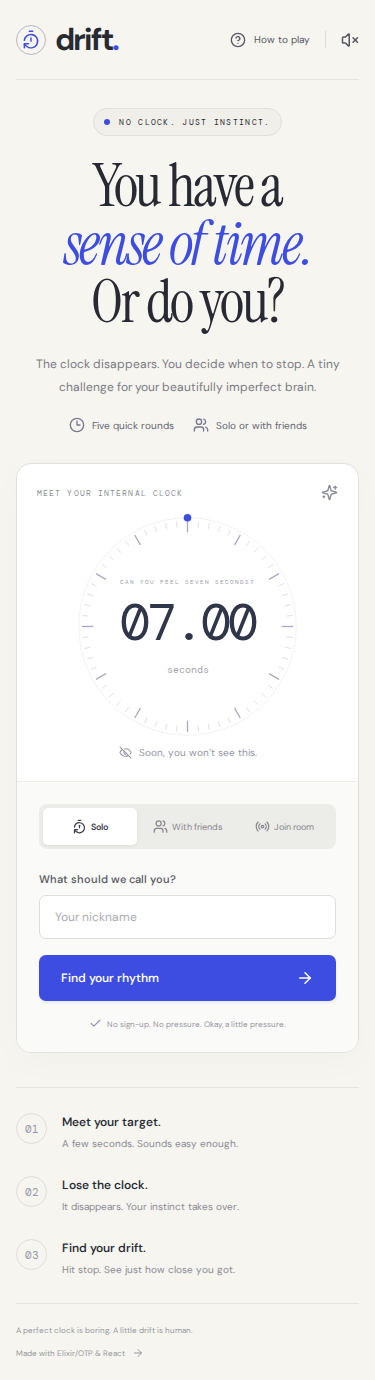
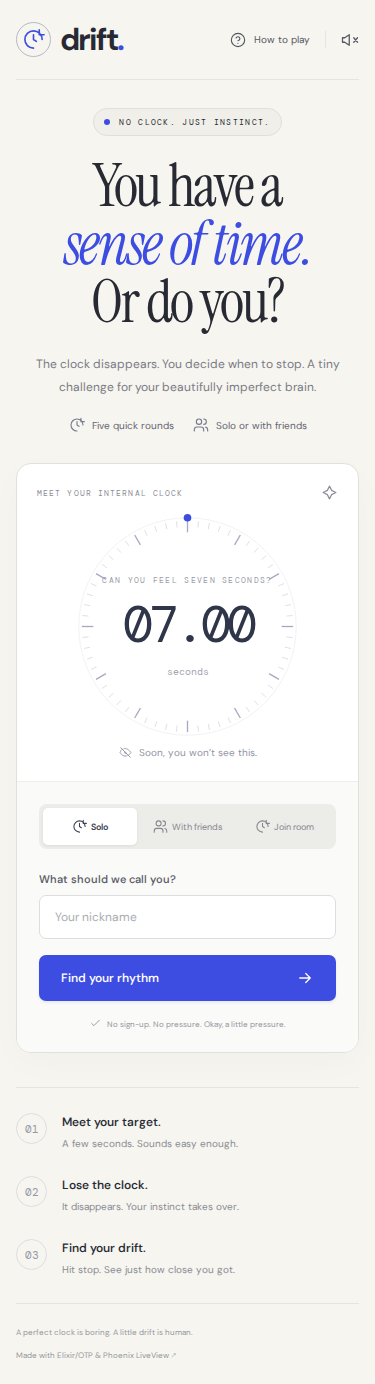
docs: explain Drift's Elixir-first LiveView architecture

diff --git a/docs/protocol.md b/docs/protocol.md
@@ -1,47 +1,57 @@
-# WebSocket protocol
+# LiveView and room messages
 
-Connect to `/ws` on the backend. Send one JSON object per text frame. Each connection occupies at most one player seat.
+The browser uses Phoenix LiveView's `/live/websocket` transport. Phoenix handles joins, heartbeats, reconnects, and HTML diffs. The former custom `/ws` JSON protocol has been removed. Application code uses LiveView events and Elixir messages between processes.
 
-## Client messages
+## Browser events
 
-| Message | Fields | Effect |
+| Event | Fields | Effect |
 | --- | --- | --- |
-| `create` | `name`, `solo` (boolean) | Create a room and take its host seat |
-| `join` | `code`, `name`, optional `token` | Join a lobby, or reconnect to a previous seat |
-| `start` | — | Host starts a new five-round match |
-| `stop` | — | Lock the sender's guess using server receipt time |
-| `next` | — | Host advances after a round reveal |
-| `ping` | — | Keep the connection alive; server returns `pong` |
+| `form` | `nickname`, optional `room-code` | Keep entry form state in the LiveView |
+| `mode` | `mode`: `solo`, `party`, or `join` | Choose how to enter |
+| `enter` | `nickname`, optional `room-code` | Create or join a room |
+| `action` | `action`: `start`, `stop`, or `next` | Send a validated game action to the room |
+| `leave` | — | Detach the seat and return home |
+| `instructions`, `close_instructions` | — | Open or close the help dialog |
+| `sound` | — | Toggle optional countdown audio |
+| `dismiss` | — | Clear a displayed error |
 
-Names must contain 1–20 characters after trimming. Rooms support one solo player or up to eight party players. Party matches need at least two connected players to start. New players may join before a match or after it finishes.
+The room validates names (nonblank, at most 20 characters), capacity, membership, host permissions, and phase. Party rooms require two connected players to start and support at most eight players. Solo rooms hold one player. New players may enter a lobby or a finished match.
 
-## Server messages
+## Seat credentials
 
-- `joined`: `code`, `player_id`, and a private `token`. Store the token in session storage and send it with `join` after reconnecting. It is a bearer credential; do not put it in share links.
-- `state`: a public `room` snapshot, including phase, target, players, and results.
-- `error`: a user-facing `message`.
-- `pong`: heartbeat acknowledgement.
+After joining, LiveView pushes a `save-seat` event containing `code`, `player_id`, `token`, and `name`. A browser hook stores it under `drift.seat` in session storage. The token is a bearer credential; never include it in invite URLs or public snapshots.
 
-Phases are `lobby → countdown → playing → reveal`, repeating until the final `finished` phase. Countdown lasts three seconds. `starts_in_ms` is the remaining time until the scheduled start; negative values indicate elapsed time. Results stay empty until reveal. The public state never contains resume tokens or another player's unrevealed guess.
+On refresh or reconnect, the LiveView client supplies the saved seat in its connection parameters. The new LiveView process calls `Room.join/4` with that token. The room replaces the previous process occupying the seat and preserves its score. An invite to another room overrides a saved seat.
+
+The `clear-seat` event removes the stored credential after explicit leave, a failed restore, room expiry/failure, or seat replacement. Storage is optional; without it, play works for the current connection but refresh recovery is unavailable.
+
+## Elixir process messages
+
+A LiveView invokes the room through its public functions:
+
+```elixir
+{:ok, room_pid, identity} = Drift.Rooms.create("Arnav", self(), solo: true)
+:ok = Drift.Room.action(room_pid, self(), "start")
+snapshot = Drift.Room.snapshot(room_pid)
+:ok = Drift.Room.leave(room_pid, self())
+```
+
+The room sends `{:room_state, snapshot}` to each connected player's LiveView. The snapshot contains phase, round, target, public player status, and revealed results. Results stay empty until the reveal; private submissions and resume tokens are never included.
+
+Lifecycle notifications carry the originating room PID: `{:connection_replaced, room_pid}` and `{:room_closed, room_pid}`. The LiveView also monitors its room. Notifications from a former room are ignored after the player switches rooms.
 
 ## Scoring and timing
 
-Targets are 5, 6, 7, 8, and 10 seconds, shuffled once per room. A round ends when everyone stops or eight seconds after the target. Missing the deadline incurs a 20-second error penalty. Closest guesses share round wins; the lowest cumulative absolute error wins the match. Exact cumulative ties share the match win.
+Phases are `lobby → countdown → playing → reveal`, repeating until `finished`. Targets are 5, 6, 7, 8, and 10 seconds, shuffled once per room. Each round starts with a three-second countdown. `starts_in_ms` is relative to the room's monotonic clock; negative values indicate elapsed time.
 
-The backend uses its monotonic clock and receives no client-supplied elapsed value. Network travel time contributes to results. This is a casual timing game, not a latency-neutral competition; play on a stable connection. The browser's local animation is approximate and does not determine the score.
+The browser dial stays visible for 1.5 seconds and then hides. JavaScript animates that dial locally, without sending messages on every frame. The server accepts no client-supplied elapsed time: a stop's receipt time determines the score.
 
-## Room lifecycle
+A round ends when everyone stops or eight seconds after the target. Missing the deadline adds a 20-second absolute error. Closest valid guesses share round wins. Lowest cumulative absolute error wins the match; exact cumulative ties share the win. Network delay contributes to results, so use a stable connection.
 
-One registered `GenServer` owns each room, under a `DynamicSupervisor`. A disconnected player's seat remains available through their token. A resumed connection replaces its predecessor. Host control transfers to a connected player when the host disconnects. Disconnected seats are removed when the next match starts.
+## Room lifecycle and transport limits
 
-Rooms expire after 15 minutes without game activity. Heartbeats do not extend the lifetime. Rooms and scores are in memory: expiry, a room crash, or a server restart clears them. Room processes use `restart: :temporary` so a failed room is not silently recreated with an empty match.
+Each registered room is a temporary child of a `DynamicSupervisor`. Disconnect marks a seat offline and transfers host control. Tokens recover those seats; offline seats are removed when the next match starts. Rooms expire after 15 minutes without game activity, and heartbeats do not extend that lifetime. A room failure or server restart clears its in-memory state.
 
-## Transport limits
+The endpoint permits 4 KiB WebSocket frames. The LiveView handles at most 40 application events per two-second window; Phoenix heartbeats are handled by the framework. The server allows up to 500 active rooms. Browser origins must match `ALLOWED_ORIGINS`, and LiveView uses the endpoint's signed session and CSRF protection.
 
-- 4 KiB maximum WebSocket frame size.
-- 40 text messages per connection per two-second window.
-- 60-second socket idle timeout; clients send heartbeats every 20 seconds.
-- Up to 500 room processes per server.
-- Browser origins must match `ALLOWED_ORIGINS`.
-
-These are development defaults, not a substitute for a reverse proxy and global connection limits on an internet-facing service.
+These per-connection limits supplement the connection limits of a deployed reverse proxy.

diff --git a/docs/development.md b/docs/development.md
@@ -2,11 +2,9 @@
 
 ## Requirements
 
-Validated on Ubuntu with Elixir 1.18.3, Erlang/OTP 27, and Node.js 24.21.0. Erlang/OTP 27 and Elixir 1.18 or later are required because the backend uses Elixir's built-in JSON module. Node.js 22.12+ is required by the frontend tooling; Node.js 24 is used in CI.
+Elixir 1.18.3, Erlang/OTP 27, and Node.js 24 are the development and CI versions. Node.js 22.12+ works with the asset tooling. npm, Git, Make, and Bash 4.3+ are also used.
 
-You also need npm, Git, Make, and Bash 4.3+ for the combined development script. Individual server commands work without Make or the script.
-
-Install Hex and Rebar once for your user if needed:
+Phoenix and LiveView are project dependencies installed by Mix; no global Phoenix installation is required. Hex and Rebar are installed once per user:
 
 ```sh
 mix local.hex --force
@@ -22,31 +20,32 @@ make setup
 make dev
 ```
 
-Open http://127.0.0.1:5173. Ctrl+C stops both servers. Development defaults are frontend port 5173 and backend port 4000.
+Open http://127.0.0.1:4000. The helper first builds browser assets, then runs Phoenix and Vite's asset watcher. Ctrl+C stops both processes. Vite builds files on disk and does not listen on a separate development port.
 
-Alternatively, run these in separate terminals:
+Restart `make dev` after editing Elixir source. Browser-hook and Tailwind changes rebuild automatically; refresh the page to load them. There is no development-only LiveReload dependency.
+
+To run the two processes separately, build once, then use separate terminals:
+
+```sh
+cd assets
+npm run build
+npm run dev
+```
 
 ```sh
 cd backend
 mix run --no-halt
 ```
 
-```sh
-cd frontend
-npm run dev
-```
+## Interface and assets
 
-Vite proxies `/ws` and `/health` to the backend. Its fixed port prevents silently moving to a port rejected by the backend's origin check.
+Elixir UI components are under `backend/lib/drift_web/components`. Keep game rules in `backend/lib/drift`; keep LiveView event handling and presentation under `backend/lib/drift_web`.
 
-## Frontend styling
+Tailwind 4 integrates with Vite in `assets/vite.config.js`. `assets/src/tailwind.css` contains the Tailwind import, shared theme tokens, and an explicit source directive scanning Elixir UI modules. Use complete utility names so Tailwind can detect them. Computed timeline positions use a CSS variable.
 
-Tailwind CSS 4 is integrated through `@tailwindcss/vite` in `frontend/vite.config.ts`. Components use utility classes for layouts, responsive breakpoints, interaction states, and reduced-motion support.
+The small `assets/src/app.js` file contains browser hooks. Phoenix JavaScript packages are local file dependencies pointing at the exact versions in `backend/deps`, keeping browser and server versions in sync. Run `make setup` after changing Mix dependencies.
 
-`frontend/src/tailwind.css` is the stylesheet entry: it contains only the Tailwind import and shared colour/font theme tokens. The old handwritten `style.css` has been removed. Fonts are loaded from the document head, with system fallbacks.
-
-Player colours use complete, static class strings in `frontend/src/lib/appearance.ts` so Tailwind can detect every option at build time. Avoid constructing utility names from partial strings. The results timeline passes its computed horizontal position through a CSS variable consumed by a Tailwind positioning utility.
-
-Prettier's Tailwind plugin sorts utility classes using the project's theme. Browser tests use dedicated test IDs for game results rather than styling class names.
+Generated bundles are written to `backend/priv/static` and are not committed. There is no React, React DOM, TypeScript application, or HTML entry file to maintain. Playwright specs use TypeScript for browser testing.
 
 ## Verification
 
@@ -54,39 +53,41 @@ Prettier's Tailwind plugin sorts utility classes using the project's theme. Brow
 make check
 ```
 
-This checks Elixir and frontend formatting, compiles with warnings treated as errors, runs backend and frontend unit tests, builds the frontend, and audits its dependencies. Run `mix format` in `backend` or `npm run format` in `frontend` to apply the formatters.
+Checks Elixir and asset formatting, compiles with warnings treated as errors, runs room and LiveView integration tests, builds assets, and audits npm dependencies. Apply formatting with `mix format` in `backend` and `npm run format` in `assets`.
 
-For browser tests, install Playwright's Chromium once, then run:
+For browser tests:
 
 ```sh
-cd frontend
+cd assets
 npx playwright install chromium
 cd ..
 make e2e
 ```
 
-On a fresh Linux environment, Playwright may also require system libraries; its `npx playwright install --with-deps chromium` command installs them. The browser download is for automated testing and is not required to run or play Drift.
+Playwright may need system libraries on a fresh Linux environment (`npx playwright install --with-deps chromium`). These browser dependencies are only needed for automated tests.
 
-The browser suite starts its own servers when ports 4000 and 5173 are free. Locally, it reuses existing servers on those ports. Stop and restart the backend after editing Elixir source; Vite reloads frontend changes automatically.
+The browser suite builds assets and starts Phoenix on port 4000. Locally it reuses a server already on that port; restart it before testing changed Elixir source. The suite checks complete solo matches, rematches, multiplayer, private guesses, refresh restoration, host handoff, responsive layouts, and rejected origins.
 
-## Serve the built application
+## Production mode
 
 ```sh
 make build
 cd backend
+export SECRET_KEY_BASE="$(mix phx.gen.secret)"
 MIX_ENV=prod mix run --no-halt
 ```
 
-Open http://127.0.0.1:4000. Cowboy serves `frontend/dist`, HTTP health checks, and WebSockets from the same origin. Keep the repository layout intact; this is a source-checkout run mode, not a relocatable OTP release.
+Open http://127.0.0.1:4000. Keep the repository layout intact; this is source-checkout run mode, not a relocatable OTP release. In a deployed environment, generate the secret once and retain it in your environment configuration. Production startup fails clearly if it is missing.
 
 ## Configuration
 
 | Variable | Default | Purpose |
 | --- | --- | --- |
-| `PORT` | `4000` | Cowboy listener port |
-| `ALLOWED_ORIGINS` | localhost and 127.0.0.1 on ports 4000 and 5173 | Comma-separated browser origins permitted to connect to `/ws` |
+| `PORT` | `4000` | Phoenix/Cowboy listener port |
+| `ALLOWED_ORIGINS` | localhost and 127.0.0.1 on port 4000 | Comma-separated origins permitted to connect to LiveView |
+| `SECRET_KEY_BASE` | Ephemeral random secret in development/test; required in production | Signs the browser session and LiveView tokens |
 
-For a deployed origin, set `ALLOWED_ORIGINS` explicitly to the full origin, including scheme and any nonstandard port. Public hosting also needs HTTPS/WSS, a WebSocket-capable reverse proxy, and appropriate global connection limits. No hosted deployment is configured in this repository.
+Set `ALLOWED_ORIGINS` explicitly when changing the port or using a deployed origin. The listener binds to loopback; expose it through a WebSocket-capable reverse proxy when deploying. Public hosting needs HTTPS/WSS and appropriate connection limits. No hosted deployment is configured.
 
 ## Dependency advisory
 

diff --git a/docs/architecture.md b/docs/architecture.md
@@ -1,40 +1,46 @@
 # Architecture
 
-Drift is an Elixir/OTP application with a React + Vite frontend. Cowboy handles HTTP and WebSockets directly; there is no Phoenix application or database.
+Drift is an Elixir/OTP application using Phoenix LiveView. Elixir owns the game and renders the interface. Cowboy and Plug provide Phoenix's HTTP/WebSocket transport. There is no database.
 
 ```mermaid
 flowchart TD
-    Browser[React browser client] <-->|WebSocket messages| Cowboy[Cowboy]
-    Cowboy --> Socket[One handler per connection]
-    Socket --> Room[One GenServer per room]
+    Browser[Browser and small JavaScript hooks] <-->|LiveView WebSocket| Endpoint[Phoenix Endpoint]
+    Endpoint --> LiveView[One LiveView process per browser]
+    LiveView <-->|Calls and room snapshots| Room[One GenServer per room]
+    LiveView --> Components[Elixir HEEx function components]
     Supervisor[Drift.Supervisor] --> Registry[Room registry]
     Supervisor --> Dynamic[Dynamic room supervisor]
-    Supervisor --> Cowboy
+    Supervisor --> PubSub[Phoenix PubSub]
+    Supervisor --> Endpoint
     Dynamic --> Room
     Room --> Registry
 ```
 
 ## Ownership
 
-- `Drift.Application` starts the supervision tree.
-- `Drift.Rooms` creates temporary room processes and resolves join codes.
-- `Drift.Room` owns players, round state, timers, and scores. Its mailbox serializes competing player actions.
-- `DriftWeb.Socket` validates messages, tracks a connection's room, and forwards public state to that client. It monitors the room and closes the connection if the room disappears.
-- `DriftWeb.Server` starts Cowboy and serves the built frontend alongside `/ws` and `/health`.
-- React's `useGame` manages the connection, heartbeat, seat credentials, and reconnect backoff. The game feature renders server-owned state and a local visual clock.
+- `Drift.Application` starts the registry, room supervisor, Phoenix PubSub, and endpoint.
+- `Drift.Rooms` creates bounded, temporary rooms and resolves join codes.
+- `Drift.Room` owns players, countdowns, round deadlines, private submissions, scoring, and host transfer. Its mailbox serializes competing actions.
+- `DriftWeb.Endpoint` serves generated assets and exposes LiveView's `/live` transport. `DriftWeb.Router` applies session, CSRF, and secure-header protection.
+- `DriftWeb.GameLive` manages one browser's seat, form state, UI actions, room monitor, and reconnect restoration. It calls the room with its own process identity and receives public snapshots as Elixir messages.
+- `DriftWeb.HomeComponents`, `MatchComponents`, `ResultsComponents`, and `UIComponents` render the screens using HEEx inside Elixir modules. `Presentation` supplies ranking, labels, and timeline positions.
+- `assets/src/app.js` contains LiveView hooks for the animated clock, sound, clipboard, modal focus, and session storage. These browser APIs need a small JavaScript layer. They never decide scores.
+- Vite builds the hook bundle and Tailwind stylesheet into ignored `backend/priv/static` files. There is no React application or separate frontend server.
 
 ## Failure boundaries
 
-Each room is a temporary supervised child. A room failure affects that match rather than intentionally recreating an empty match under the same code. Other rooms remain available. A backend restart clears all rooms.
+Each room is a temporary supervised child. A failure affects that match; the supervisor does not recreate an empty room under the same code. Other rooms remain available. A backend restart clears rooms.
 
-Player sockets are monitored by their room. Disconnects mark seats offline and transfer host control. A secret resume token recovers a seat and invalidates any prior connection to it. Tokens live in session storage and are never included in public room snapshots or invite URLs.
+Rooms monitor the LiveView processes occupying their seats. A disconnect marks the seat offline and transfers host control to a connected player. Explicit leave detaches the seat while keeping the LiveView alive on the home screen. A secret resume token restores the same seat and invalidates its previous connection.
+
+The token lives in session storage for that tab, never in public snapshots or invite links. The LiveView client sends it as a connection parameter on reconnect or refresh. An invite to a different room takes precedence over the saved seat. Expired rooms and replaced connections clear the saved seat.
 
 ## Timing
 
-The server schedules a three-second countdown using its monotonic clock. It records elapsed time when it receives `stop`. Client animations do not determine scores. A finite deadline finishes each round even if a player leaves or never submits.
+The room schedules a three-second countdown using its monotonic clock. The server records elapsed time when it receives a stop action. Browser animation does not determine scores. A finite deadline ends the round even when a player disconnects or never submits.
 
-Network delay influences both the start animation and stop receipt time. The application makes no claim of competitive, latency-neutral timing. Protocol and scoring details are in [protocol.md](protocol.md).
+The browser anchors its animation from `starts_in_ms` on a new round or remount. Animation frames update the local dial without WebSocket traffic. Network latency influences both the displayed start and stop receipt time; Drift is a casual timing game. See [protocol.md](protocol.md).
 
 ## Deliberate limits
 
-The first version uses one server and in-memory room state. It does not provide accounts, permanent match history, cross-node room coordination, or protection against a player using an external clock or a scripted client. The frontend loads optional Google Fonts; system fonts remain available if that request fails.
+One server, in-memory matches, eight players per private room, and at most 500 active rooms. No accounts, permanent history, cross-node room ownership, or protection against external clocks and scripted clients. Google Fonts are optional; the stylesheet supplies system fallbacks.

diff --git a/CONTRIBUTING.md b/CONTRIBUTING.md
@@ -1,7 +1,7 @@
 # Contributing
 
-Start with [the development guide](docs/development.md). Keep backend game rules in `backend/lib/drift`, transport code in `backend/lib/drift_web`, and frontend features in `frontend/src/features`.
+Start with [the development guide](docs/development.md). Keep game rules in `backend/lib/drift`, LiveView and Elixir UI components in `backend/lib/drift_web`, and browser-only hooks in `assets/src/app.js`.
 
-Before submitting a change, run `make check`. Run `make e2e` for changes to gameplay, transport, or browser interactions. Add regression coverage for meaningful behavior changes, especially timing boundaries and reconnect handling.
+Run `make check` before submitting changes. Run `make e2e` for gameplay, LiveView, styling, or browser interaction changes. Add regression coverage for meaningful timing, seat, validation, and reconnect behavior.
 
-Keep commits focused on a complete, reviewable chunk. Include the reason for the change and the checks you ran in your pull request.
+Keep commits focused on a complete, reviewable chunk. Include the reason for the change and the checks run in your pull request.
